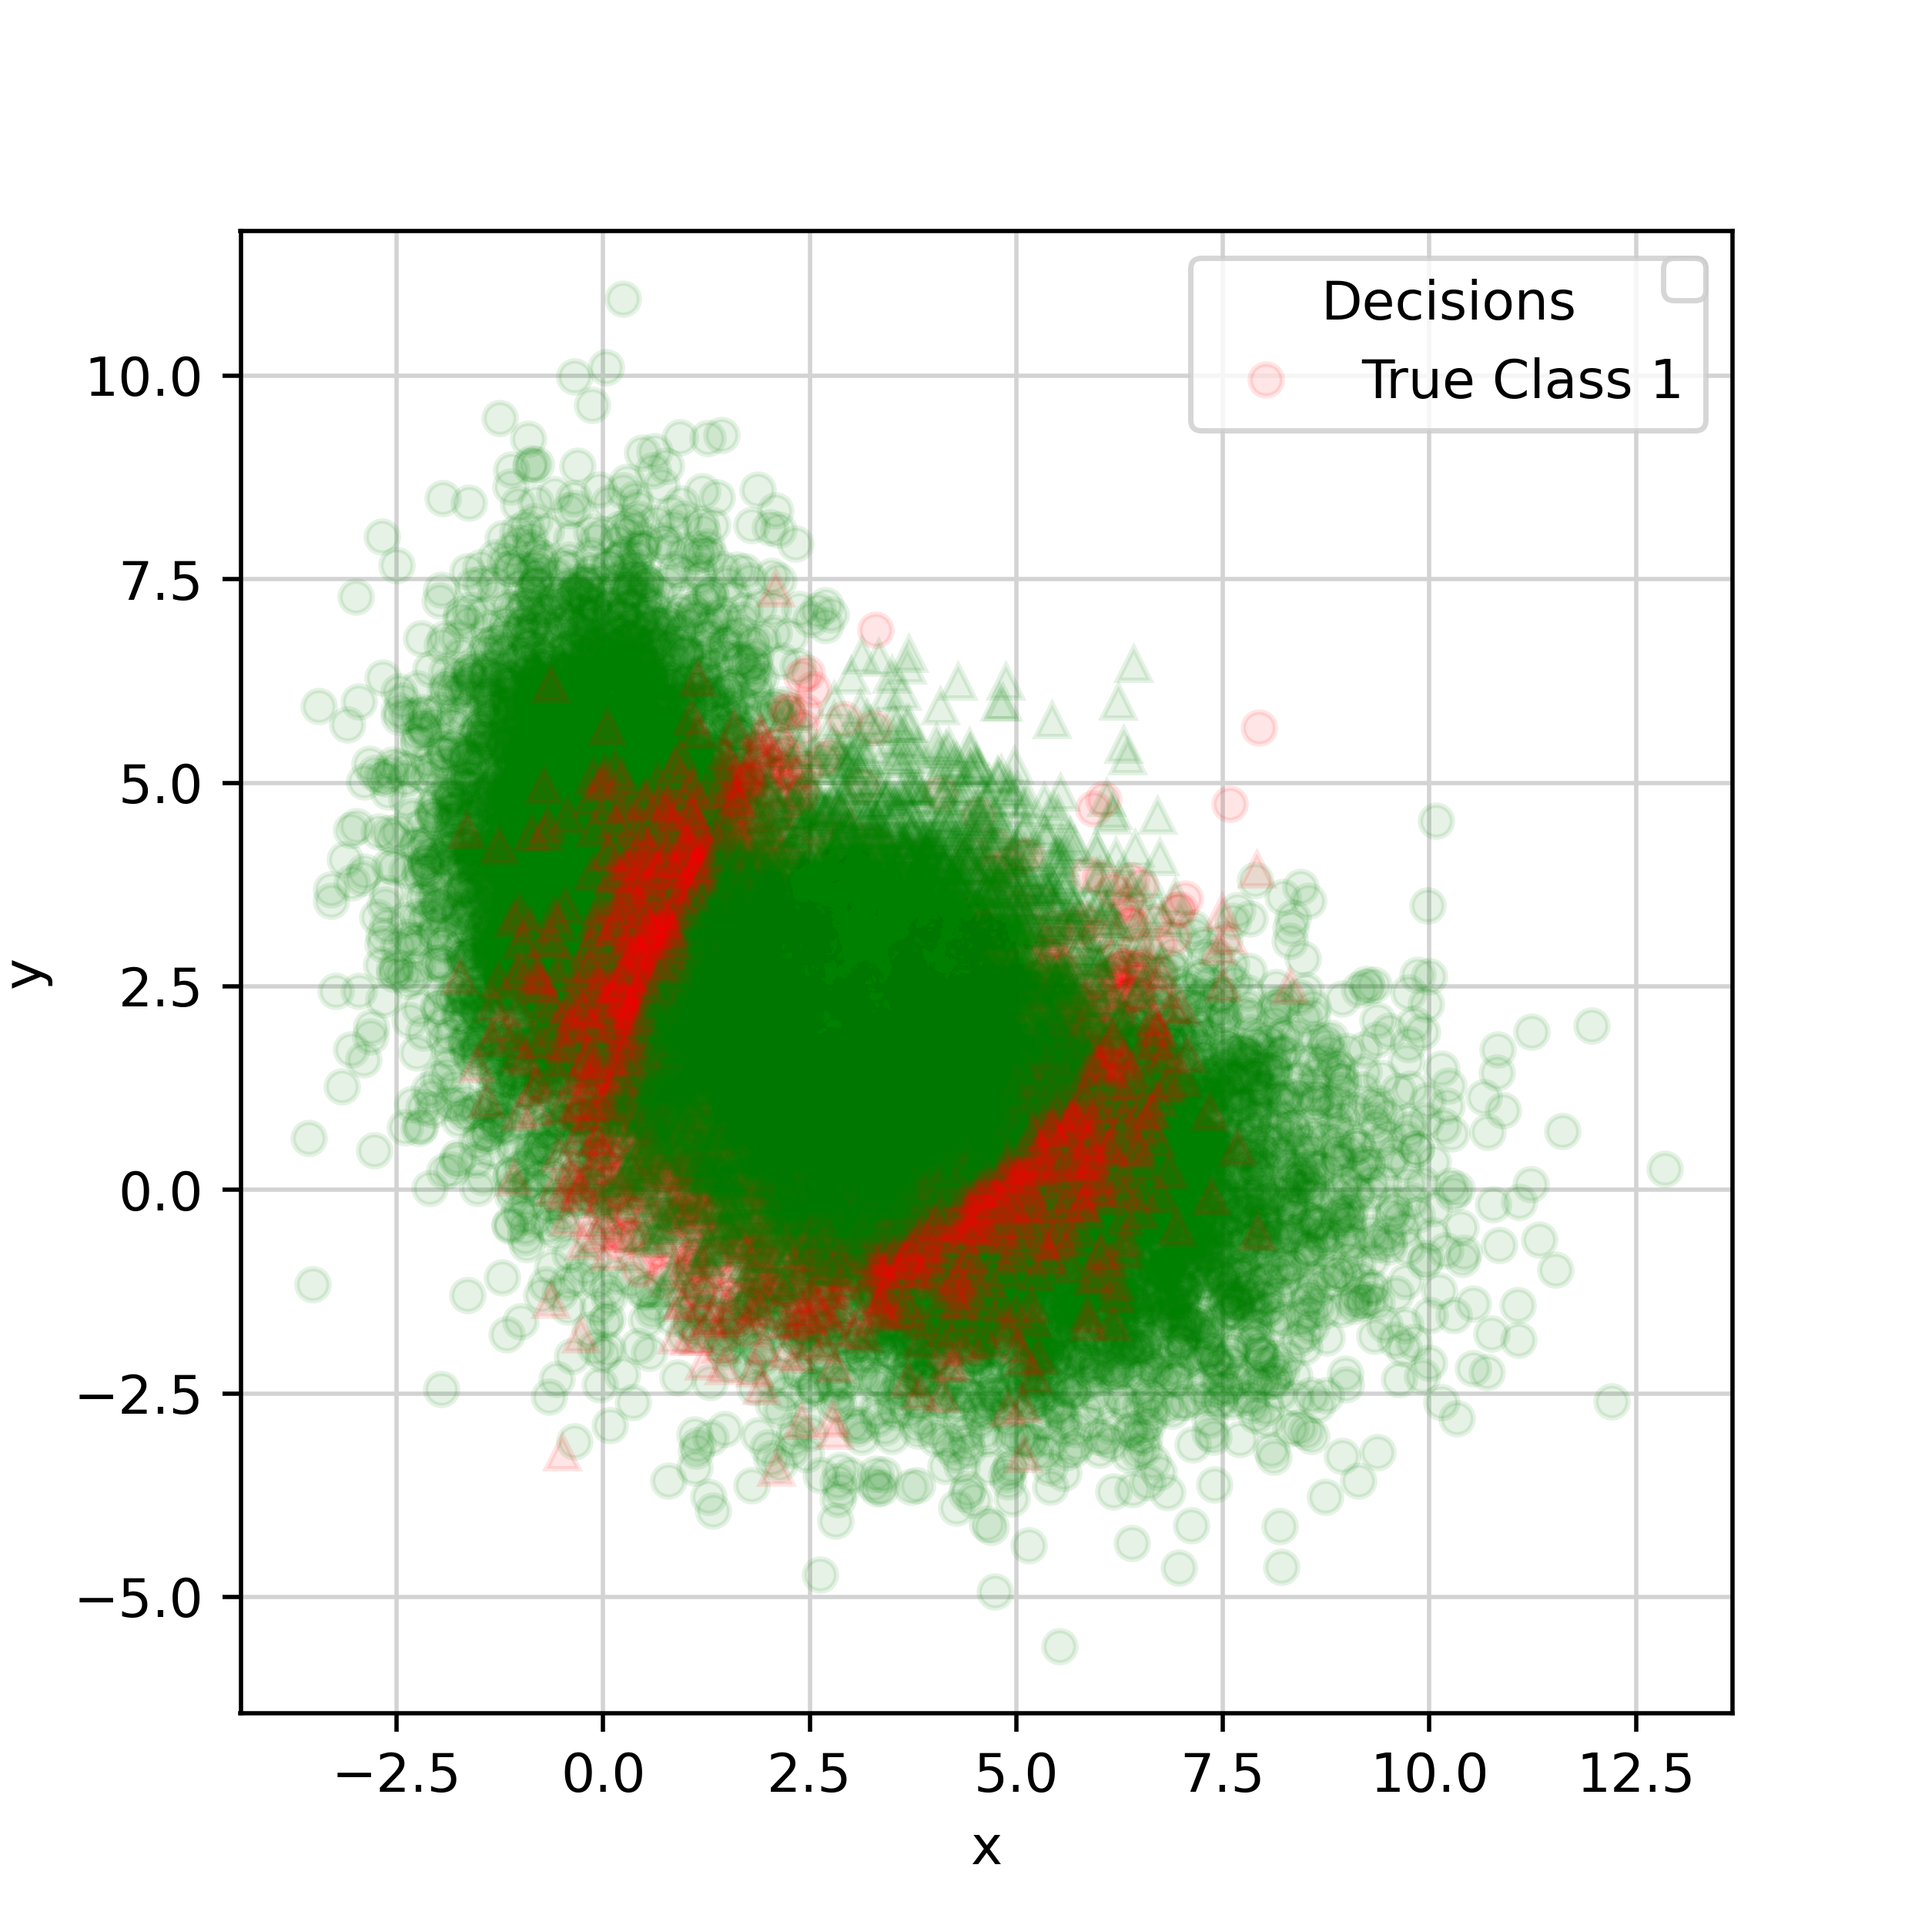
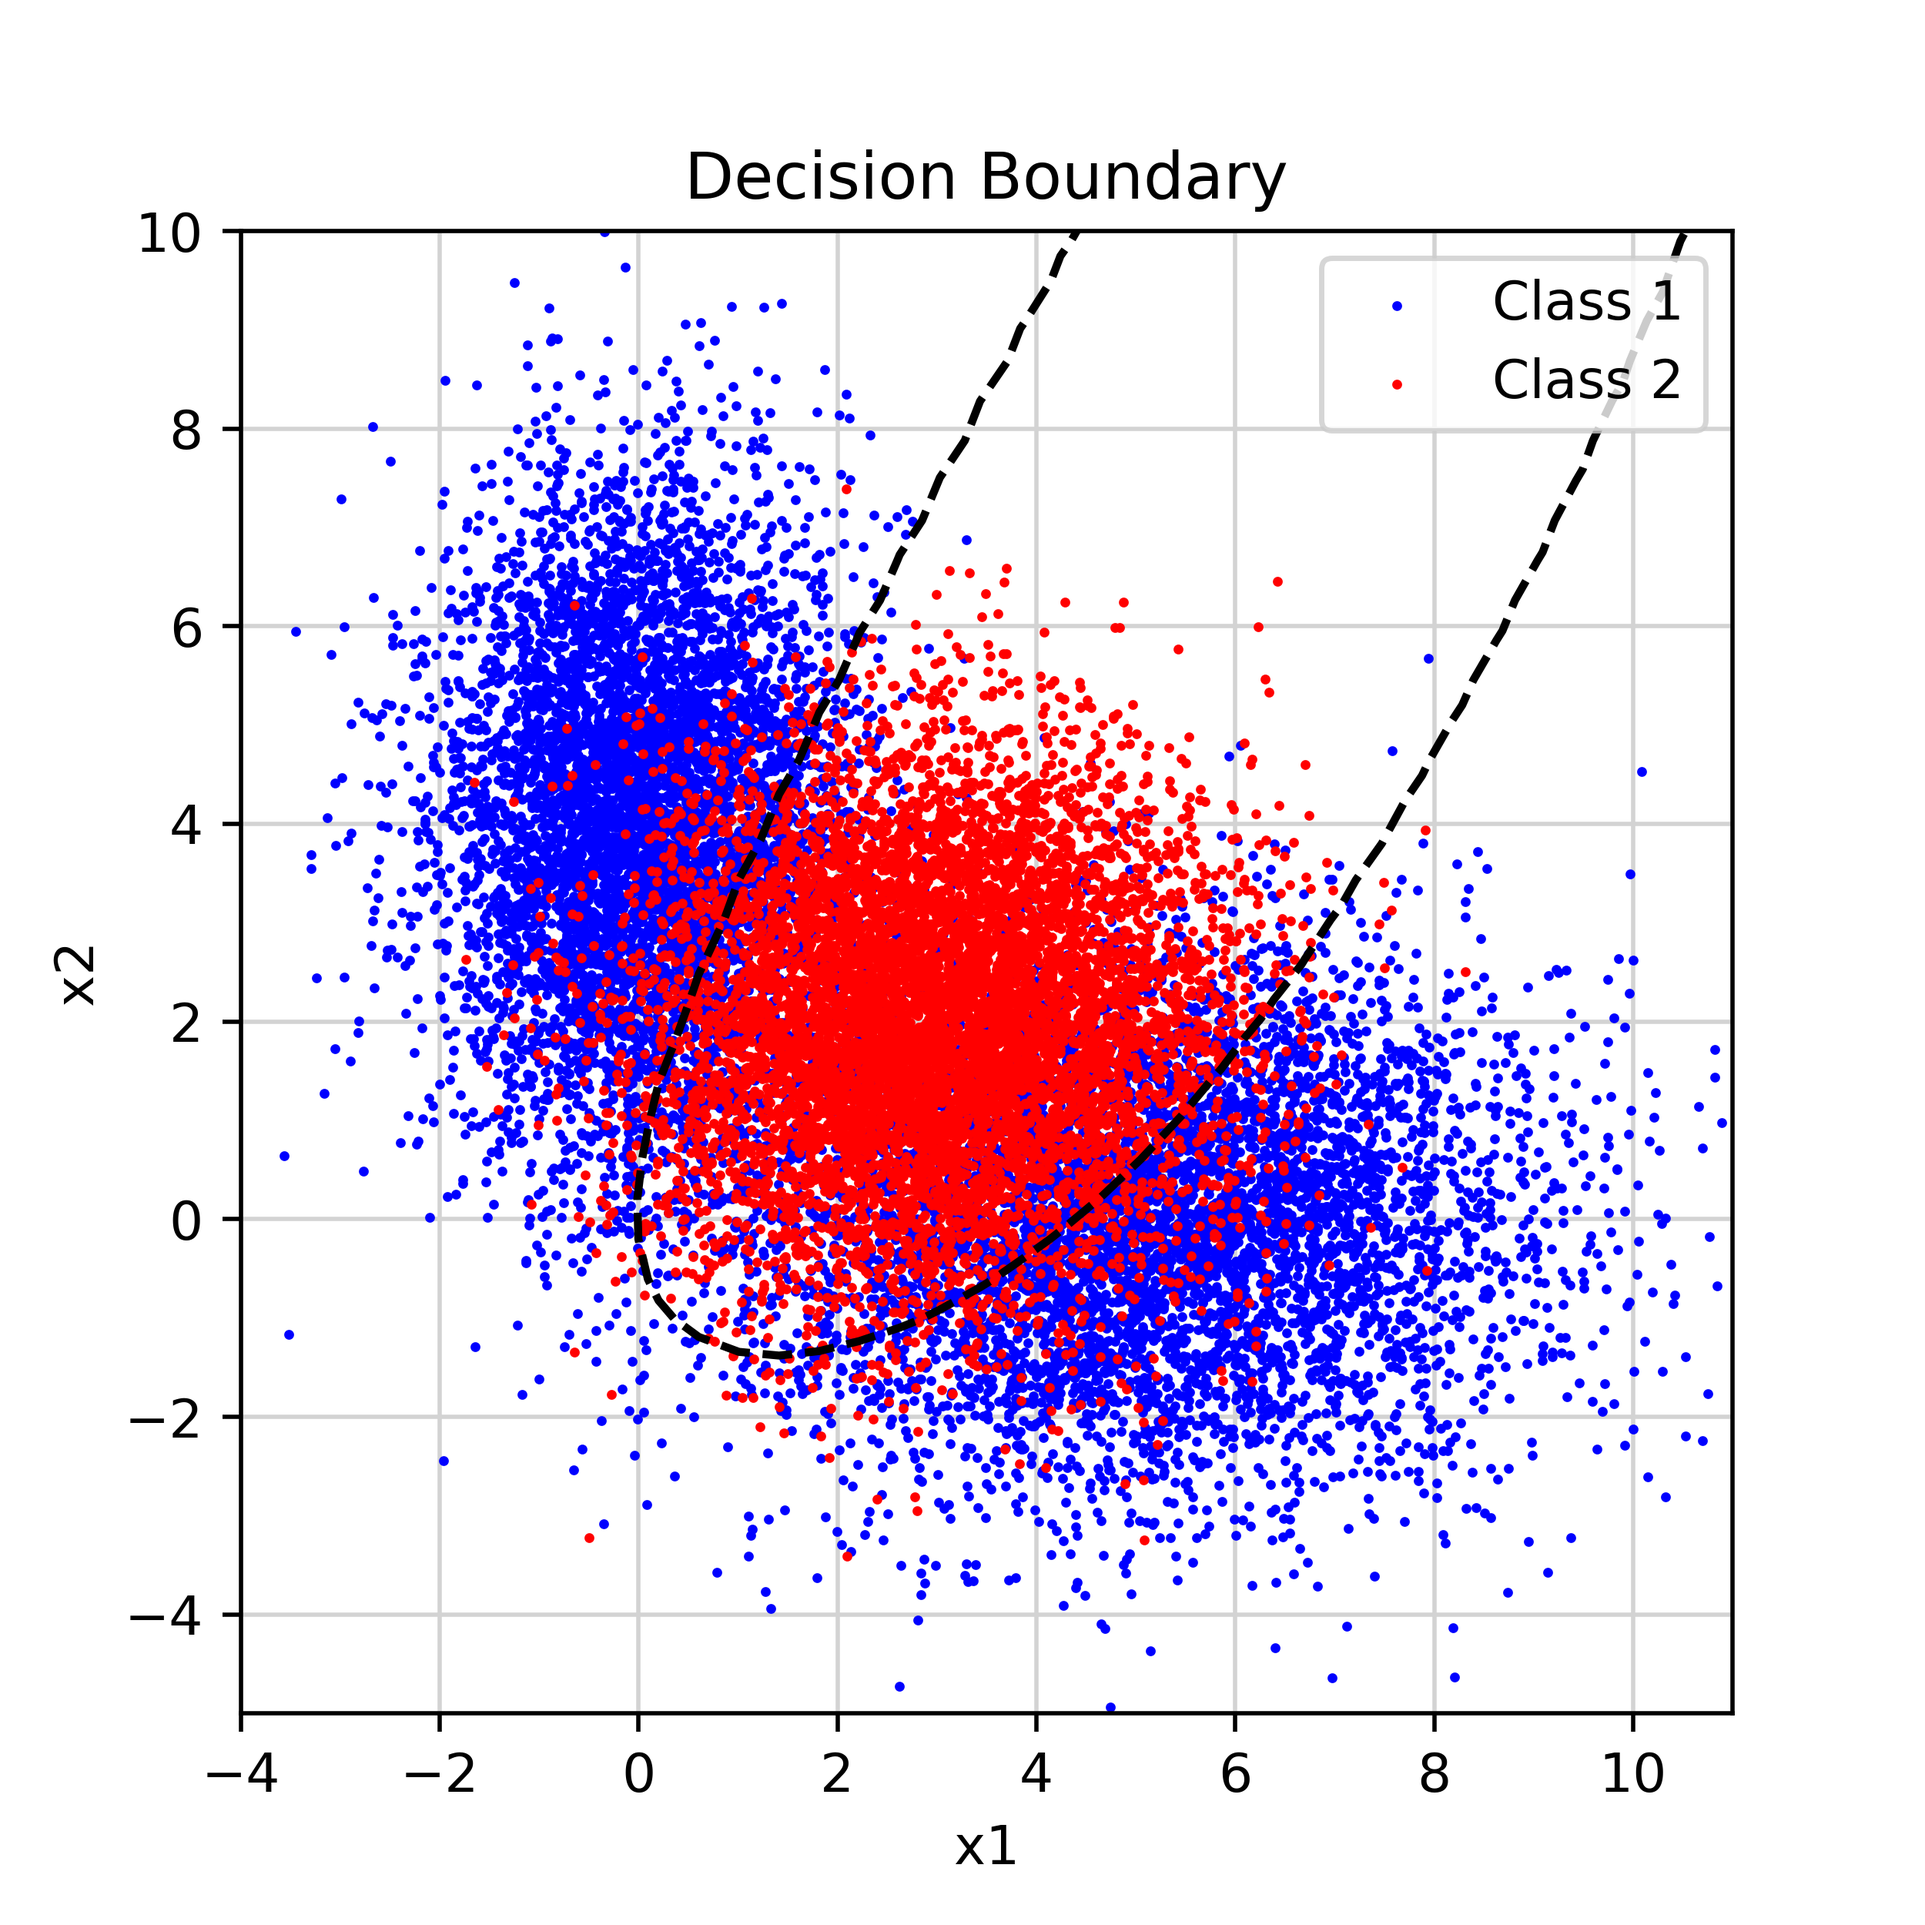
decision boundary added

diff --git a/HW3/MLE_EM.py b/HW3/MLE_EM.py
@@ -1,0 +1,69 @@
+import numpy as np
+import matplotlib.pyplot as plt
+import scipy.stats as stats
+import math
+import sys
+import pandas as pd
+from sklearn.mixture import GaussianMixture as GMM
+
+# Read in the data
+def read_data(filename):
+    data = pd.read_csv(filename)
+    return data
+
+# Fit a gaussian model for the data and return the parameters using fitgmdist function
+def fit_gaussian(data, mixtureComponents, classLabel):
+    X = np.empty((0,2), float)
+    # Fit a Gaussian mixture with EM using fitgmdist function
+    GMModel = GMM(n_components = mixtureComponents, covariance_type = 'diag', verbose = 0, tol = 1e-3)
+    # for i, rows in data.iterrows():
+    #     if rows['True Class Label'] == classLabel:
+    #         if i == 0:
+    #             X = np.array([rows['x'], rows['y']])
+    #         else:
+    #             try:
+    #                 X = np.vstack((X, np.array([rows['x'], rows['y']])))
+    #             except UnboundLocalError:
+    #                 X = np.array([rows['x'], rows['y']])
+    X = data[data['True Class Label'] == classLabel][['x', 'y']].to_numpy()
+    # print(X.shape)
+    # print(X)
+    GMModel = GMModel.fit(X)
+    #gmm = stats.fitgmdist(data, 1)
+    # Return the parameters
+    return GMModel.means_, GMModel.covariances_, GMModel.weights_
+
+if __name__ == "__main__":
+    # Read in the data
+    data = read_data("./HW3/Train_10000samples.csv")
+    # Fit a Gaussian mixture model for the data
+    gmm_mean, gmm_cov, gmm_weight = fit_gaussian(data, 2, 1)
+    # Print the parameters
+    print('mu: ', gmm_mean)
+    print('sigma: ', gmm_cov)
+    print('prior: ', gmm_weight)
+
+    # Plot contours of the estimated mixture model for class 1
+    #fig, ax = plt.subplots(1,2, figsize=(5,5))
+    x, y = np.mgrid[-10:10:.01, -10:10:.01]
+    pos = np.empty(x.shape + (2,))
+    pos[:, :, 0] = x
+    pos[:, :, 1] = y
+    rv = stats.multivariate_normal(gmm_mean[1], gmm_cov)
+    plt.contour(x, y, rv.pdf(pos))
+    plt.scatter(data[data['True Class Label'] == 1]['x'], data[data['True Class Label'] == 1]['y'], s=1)
+
+    class2_mean, class2_cov, class2_weight = fit_gaussian(data, 1, 2)
+    print('mu2: ', class2_mean)
+    print('sigma2: ', class2_cov)
+    print('prior2: ', class2_weight)
+
+    # # Plot contours of the estimated mixture model for class 2
+    # x, y = np.mgrid[-10:10:.01, -10:10:.01]
+    # pos = np.empty(x.shape + (2,))
+    # pos[:, :, 0] = x
+    # pos[:, :, 1] = y
+    # rv = stats.multivariate_normal(class2_mean, class2_cov)
+    # ax[0,1].contour(x, y, rv.pdf(pos))
+
+    plt.show()

diff --git a/HW3/LikelihoodRatio.py b/HW3/LikelihoodRatio.py
@@ -79,37 +79,27 @@ def likelihood_ratio_test(data, mu, sigma, prior):
     plt.clf()
     plt.close()
 
-    # Plot the Decision boundary
-    # fig, ax = plt.subplots(1,1, figsize=(5, 5))
-    # ax.plot(data[data['True Class Label'] == 1]['x'], data[data['True Class Label'] == 1]['y'], 'bo', markersize=2)
-    # ax.plot(data[data['True Class Label'] == 2]['x'], data[data['True Class Label'] == 2]['y'], 'ro', markersize=2)
-    # ax.plot(data[data['Decision'] == 1]['x'], data[data['Decision'] == 1]['y'], 'go', markersize=2)
-    # ax.plot(data[data['Decision'] == 2]['x'], data[data['Decision'] == 2]['y'], 'yo', markersize=2)
-
+    #Plot the decision boundary of the classifier using the threshold value
     fig, ax = plt.subplots(1,1,figsize=(5,5))
-    for idx,row in data.iterrows():
-        true_label = row['True Class Label']
-        decision   = row['Decision']
-        x = row['x']
-        y = row['y']
-        if(true_label==1):
-            if(true_label==decision):
-                ax.plot(x,y,'go', alpha=0.1)
-            else:
-                ax.plot(x,y,'ro', alpha=0.1)
-        else:
-            if(true_label==decision):
-                ax.plot(x,y,'g^', alpha=0.1)
-            else:
-                ax.plot(x,y,'r^', alpha=0.1)
-
-    legend = ax.legend({'True Class 1':'go'},loc="upper right", title="Decisions")
-    ax.add_artist(legend)
-    ax.set_xlabel('x')
-    ax.set_ylabel('y')
+    ax.set_title('Decision Boundary')
+    x = np.linspace(-20, 20, 100)
+    y = np.linspace(-20, 20, 100)
+    X, Y = np.meshgrid(x, y)
+    Z = np.zeros((100, 100))
+    for i in range(0, 100):
+        for j in range(0, 100):
+            Z[i, j] = ((stats.multivariate_normal.pdf([X[i, j], Y[i, j]], mean=mu[0], cov=sigma[0]) * w1) + (stats.multivariate_normal.pdf([X[i, j], Y[i, j]], mean=mu[1], cov=sigma[1]) * w2))/stats.multivariate_normal.pdf([X[i, j], Y[i, j]], mean=mu[2], cov=sigma[2])
+    plt.contour(X, Y, Z, [thy_threshold], colors='k', linestyles='dashed')
+    plt.scatter(data[data['True Class Label'] == 1]['x'], data[data['True Class Label'] == 1]['y'], c='b', s=0.7, label='Class 1')
+    plt.scatter(data[data['True Class Label'] == 2]['x'], data[data['True Class Label'] == 2]['y'], c='r', s=0.7, label='Class 2')
+    ax.set_xlabel('x1')
+    ax.set_ylabel('x2')
+    ax.set_xlim(-4, 11)
+    ax.set_ylim(-5, 10)
     ax.yaxis.grid(color='lightgrey')
     ax.xaxis.grid(color='lightgrey')
     ax.set_axisbelow(True)
+    plt.legend()
     plt.savefig('./HW3/Decision_boundary.png', dpi=500)
     plt.clf()
     plt.close()
